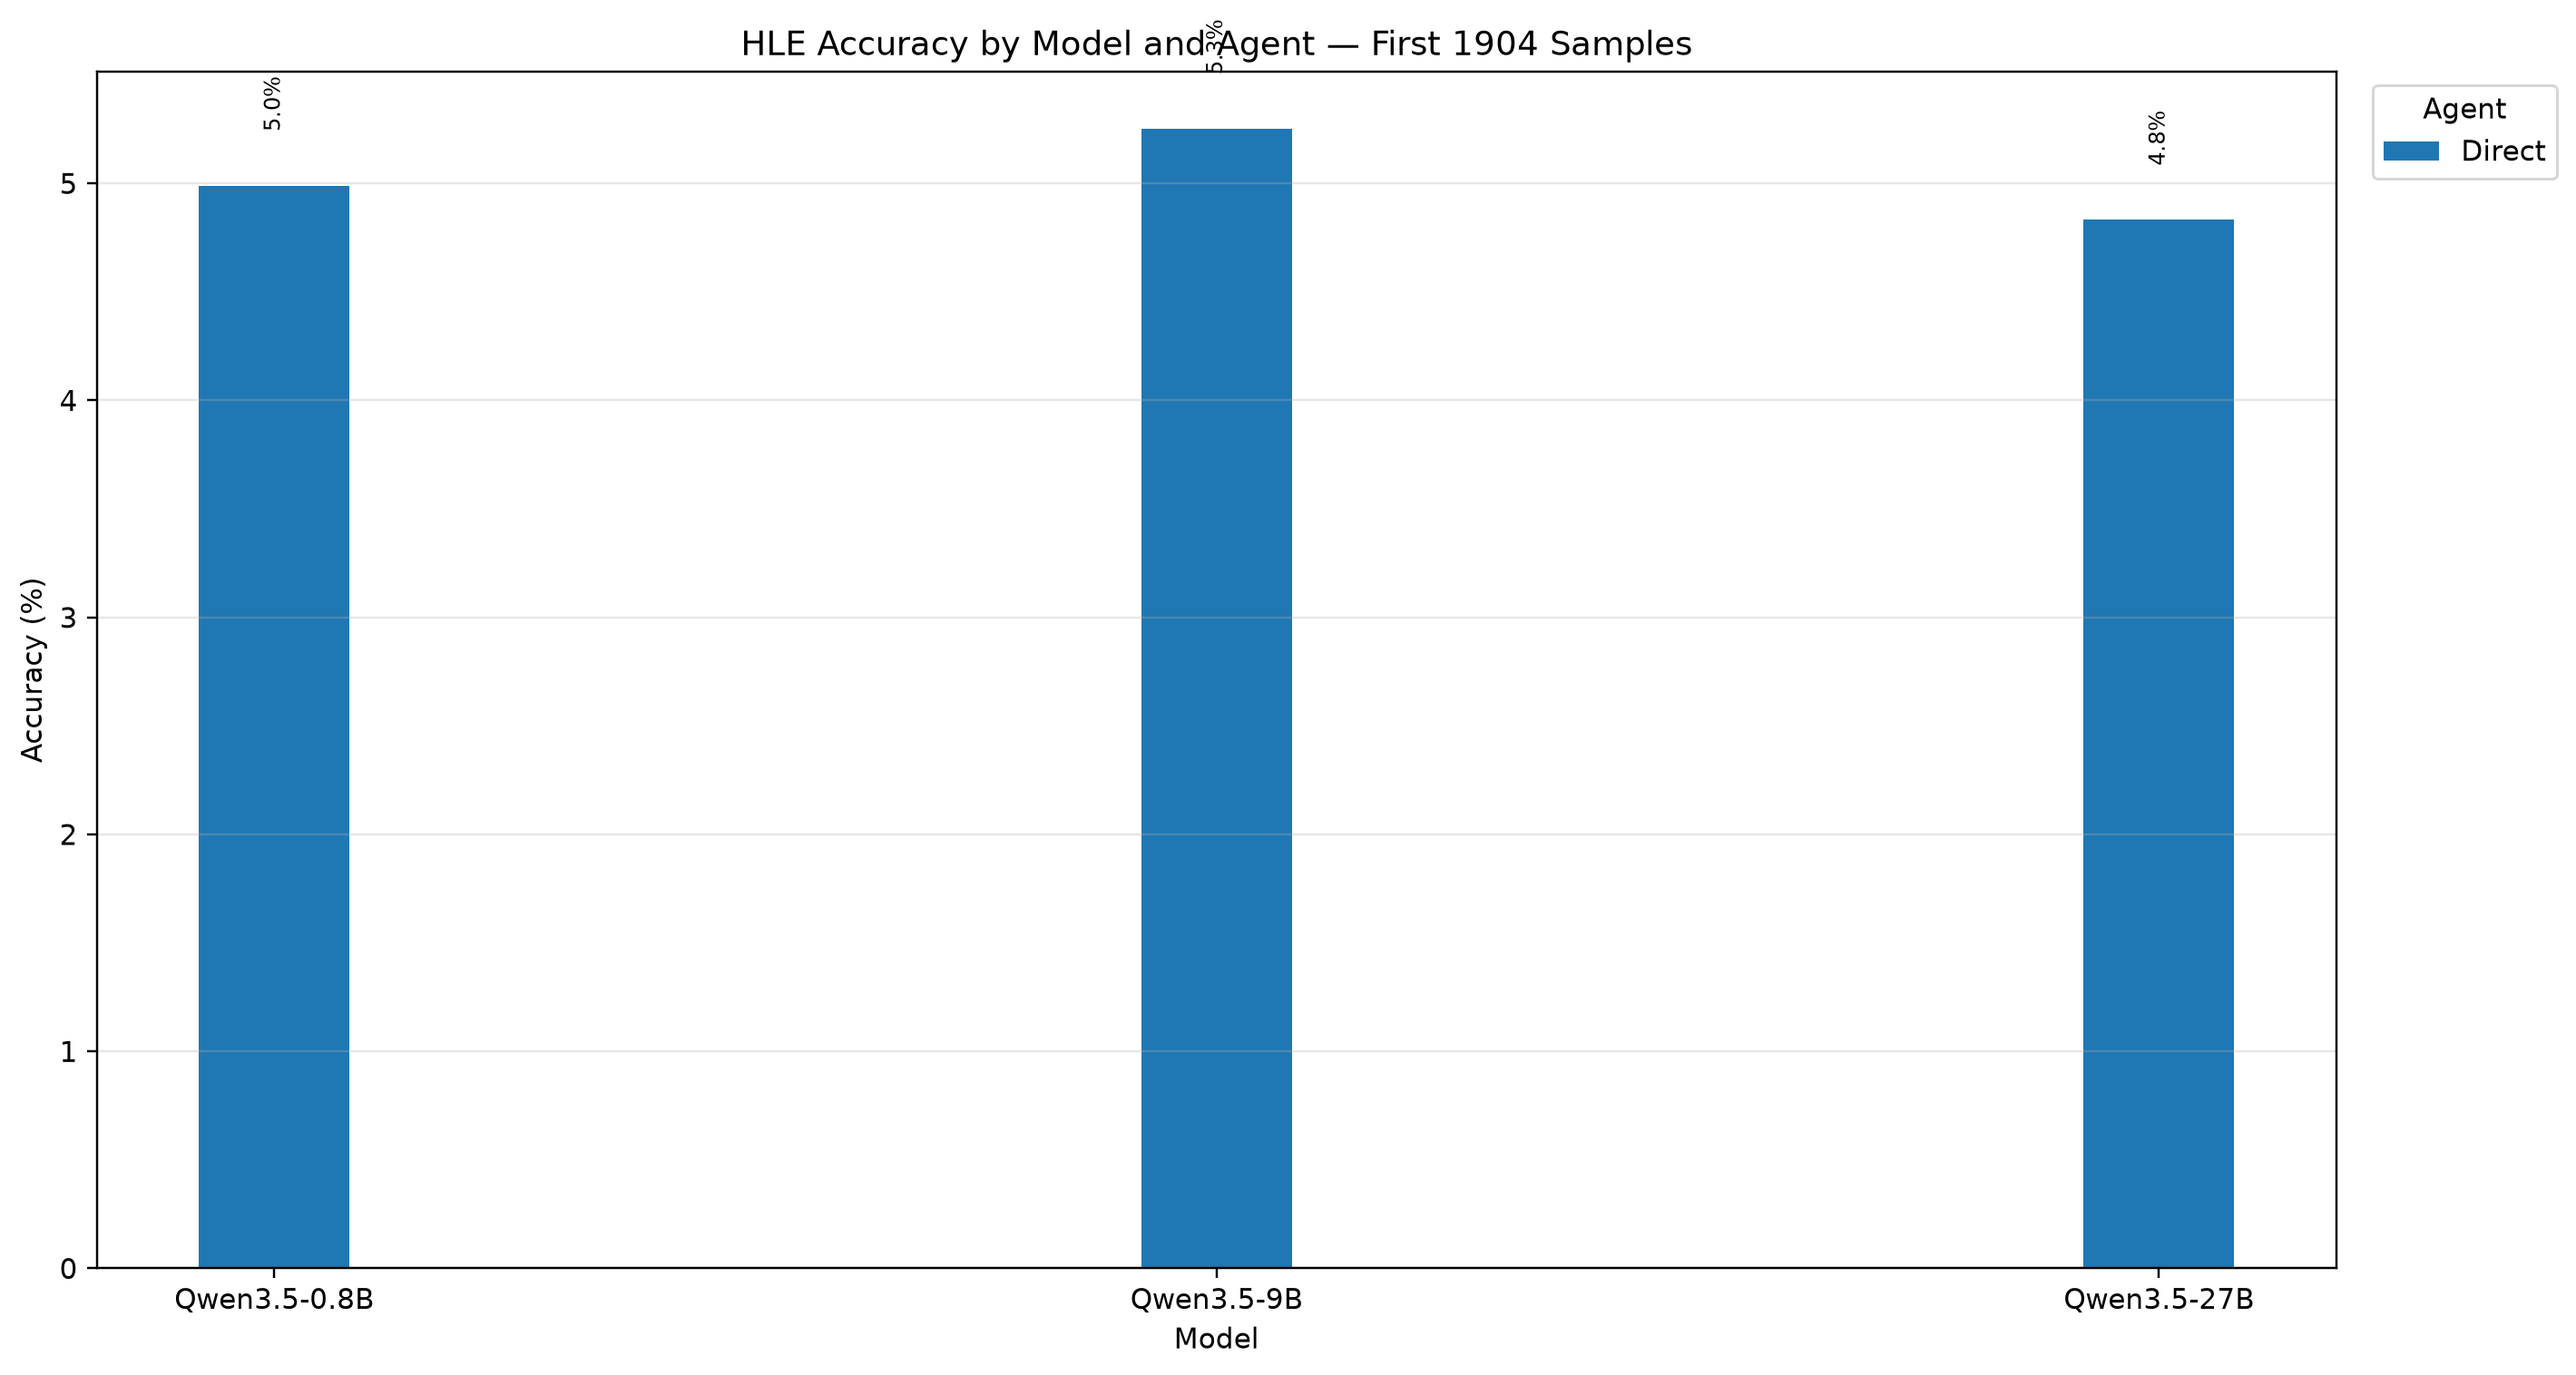
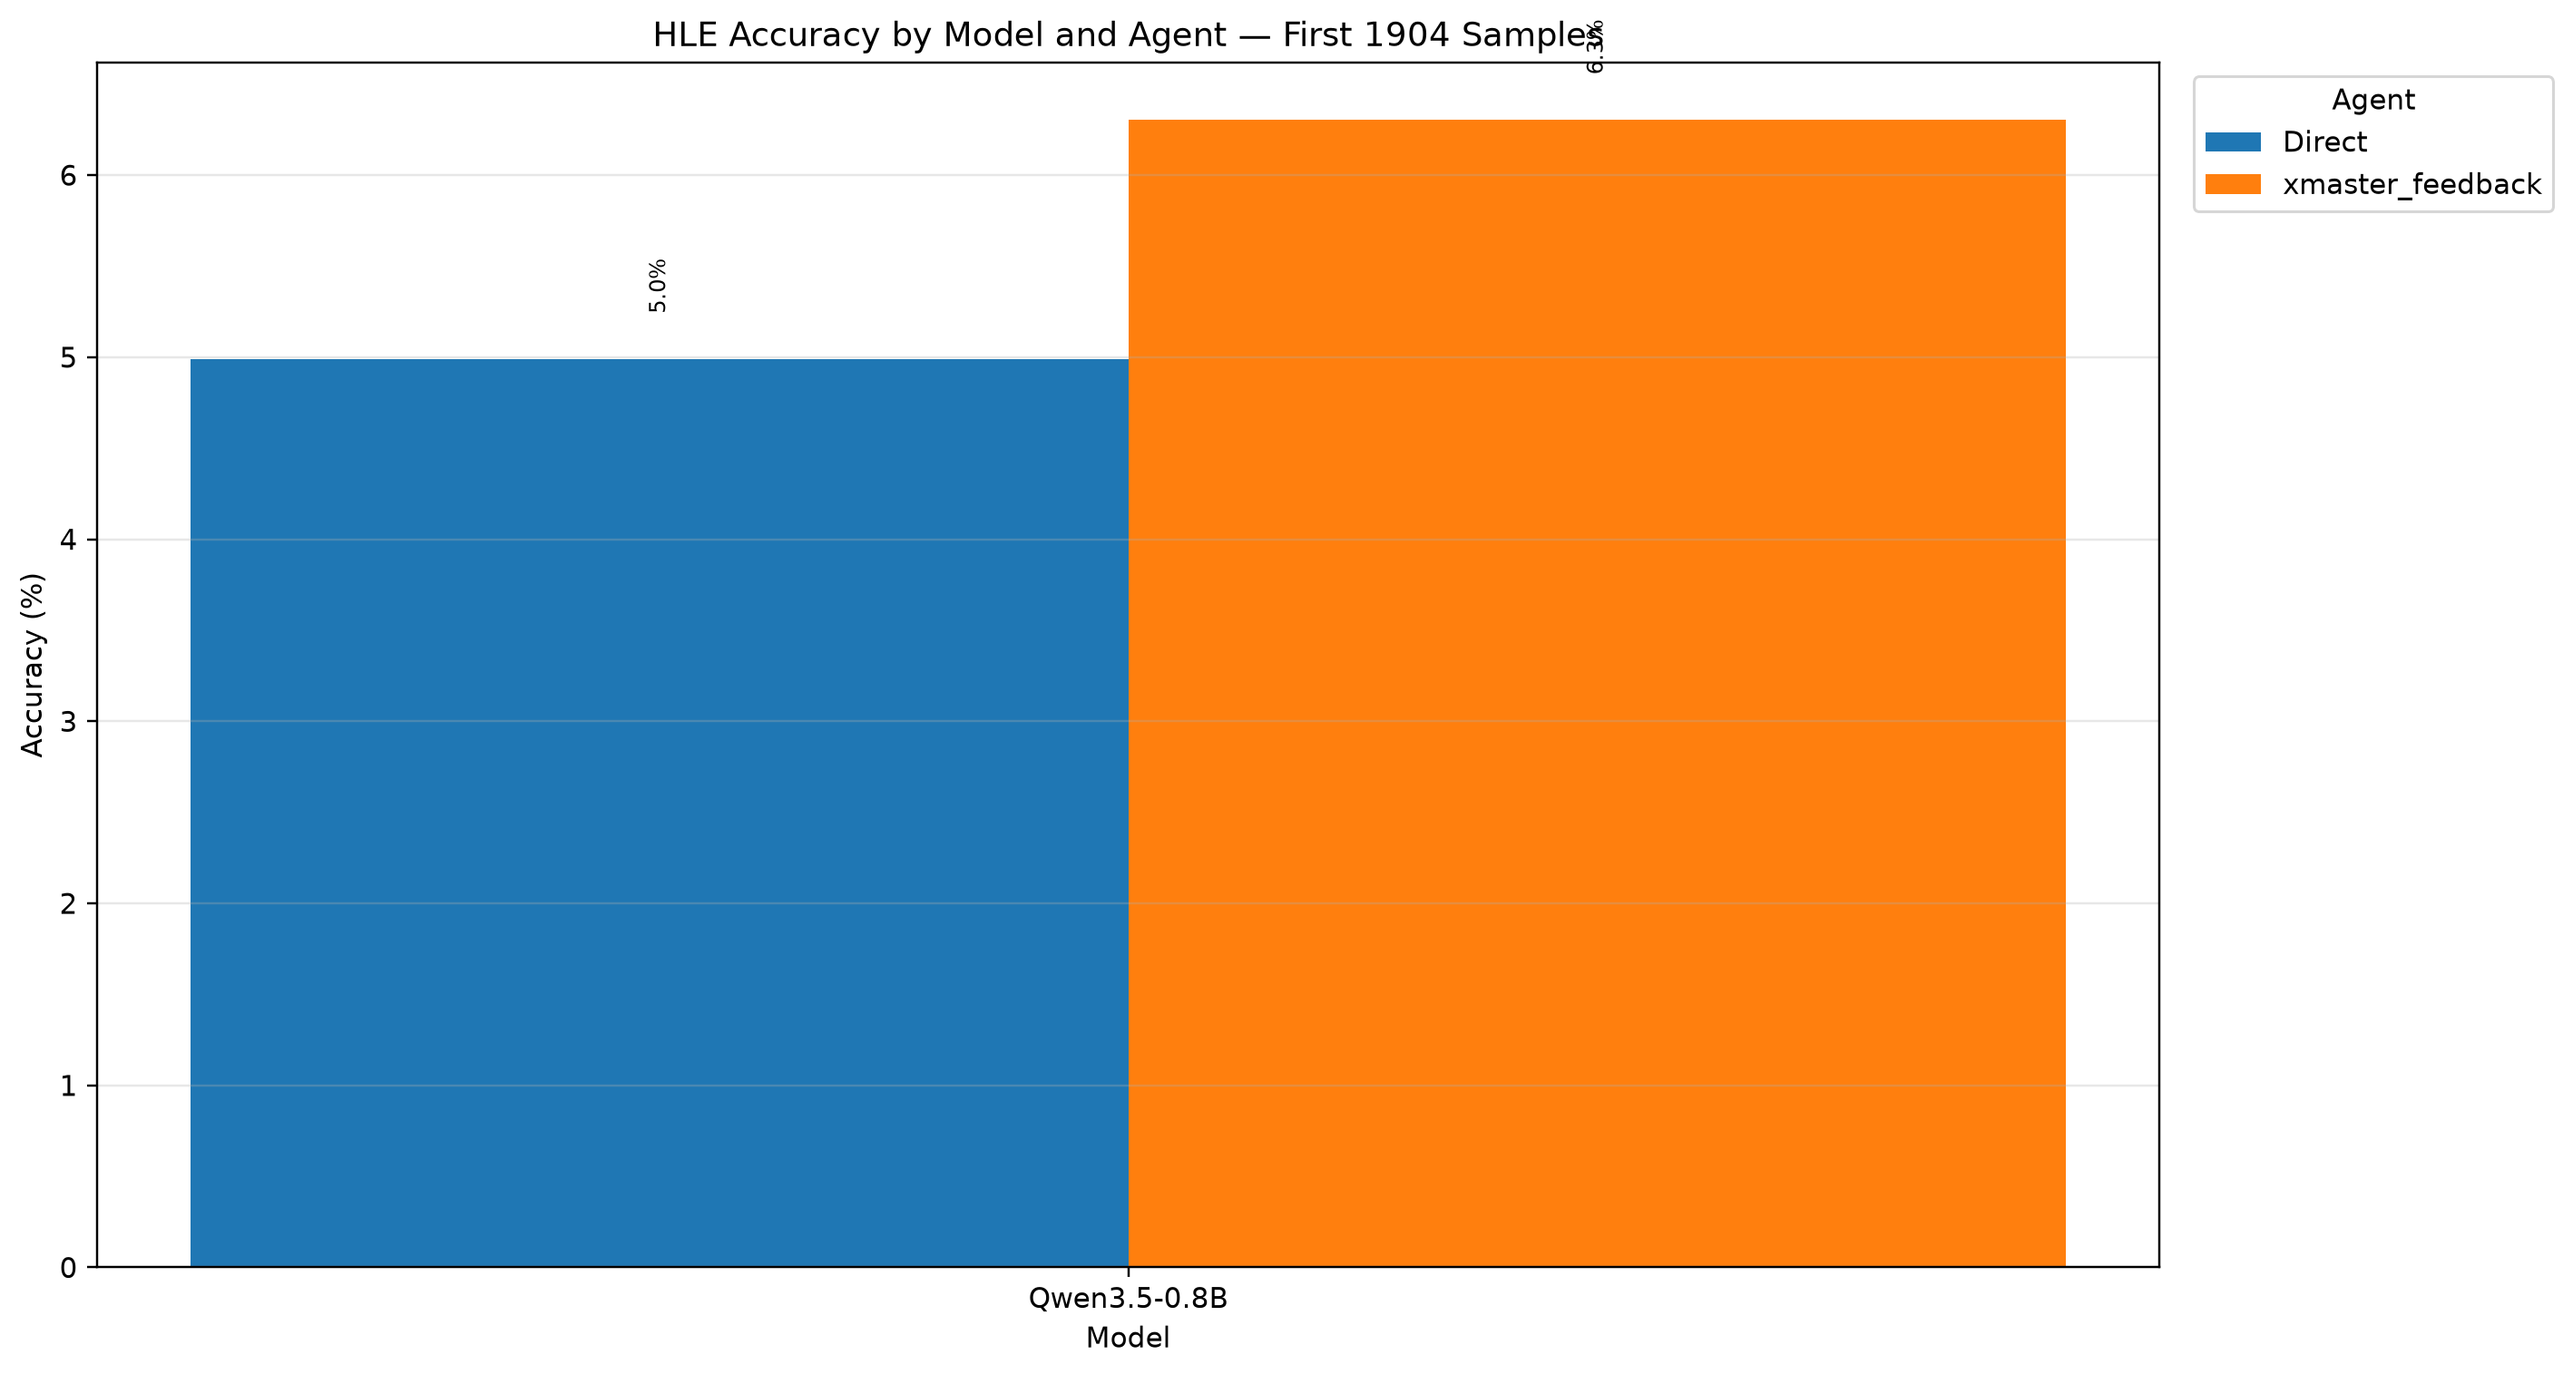
feat: use 3.5-thinking

diff --git a/scripts/compare_first_200_with_charts.py b/scripts/compare_first_200_with_charts.py
@@ -20,7 +20,7 @@ import numpy as np
 # This works both locally and on Ubelix without hard-coded paths.
 SCRIPT_DIR = Path(__file__).resolve().parent
 PROJECT_ROOT = SCRIPT_DIR.parent
-RESULT_ROOT = PROJECT_ROOT / "outputs" / "three_model_comparison_thinking"
+RESULT_ROOT = PROJECT_ROOT / "outputs" / "three_model_comparison"
 FIRST_N = 1904
 
 MODELS = [
@@ -34,24 +34,25 @@ MODELS = [
     #     "tag": "qwen25_7b",
     #     "precision": "BF16/FP16",
     # },
-    {
-        "name": "Qwen3.5-9B",
-        "tag": "qwen35_9b",
-        "precision": "BF16/FP16",
-    },
-    {
-        "name": "Qwen3.5-27B",
-        "tag": "qwen35_27b",
-        "precision": "NF4 4-bit",
-    },
+    # {
+    #     "name": "Qwen3.5-9B",
+    #     "tag": "qwen35_9b",
+    #     "precision": "BF16/FP16",
+    # },
+    # {
+    #     "name": "Qwen3.5-27B",
+    #     "tag": "qwen35_27b",
+    #     "precision": "NF4 4-bit",
+    # },
 ]
 
 AGENTS = [
     "direct",
-    # "feedback",
+    "xmaster_feedback",
     # "tool_search",
     # "oracle_feedback",
     # "oracle_tool",
+
 ]
 
 EXTRACT_ROOT = RESULT_ROOT / "first_1904_results"

diff --git a/outputs/three_model_comparison/first_1904_category_comparison.md b/outputs/three_model_comparison/first_1904_category_comparison.md
@@ -10,19 +10,11 @@
 | Qwen3.5-0.8B | Direct | Math | 3.46% | 30 / 866 |
 | Qwen3.5-0.8B | Direct | Other | 4.96% | 7 / 141 |
 | Qwen3.5-0.8B | Direct | Physics | 5.68% | 10 / 176 |
-| Qwen3.5-9B | Direct | Biology/Medicine | 10.05% | 21 / 209 |
-| Qwen3.5-9B | Direct | Chemistry | 7.89% | 6 / 76 |
-| Qwen3.5-9B | Direct | Computer Science/AI | 3.98% | 8 / 201 |
-| Qwen3.5-9B | Direct | Engineering | 8.77% | 5 / 57 |
-| Qwen3.5-9B | Direct | Humanities/Social Science | 5.62% | 10 / 178 |
-| Qwen3.5-9B | Direct | Math | 3.93% | 34 / 866 |
-| Qwen3.5-9B | Direct | Other | 5.67% | 8 / 141 |
-| Qwen3.5-9B | Direct | Physics | 4.55% | 8 / 176 |
-| Qwen3.5-27B | Direct | Biology/Medicine | 7.66% | 16 / 209 |
-| Qwen3.5-27B | Direct | Chemistry | 3.95% | 3 / 76 |
-| Qwen3.5-27B | Direct | Computer Science/AI | 5.47% | 11 / 201 |
-| Qwen3.5-27B | Direct | Engineering | 8.77% | 5 / 57 |
-| Qwen3.5-27B | Direct | Humanities/Social Science | 5.62% | 10 / 178 |
-| Qwen3.5-27B | Direct | Math | 4.16% | 36 / 866 |
-| Qwen3.5-27B | Direct | Other | 3.55% | 5 / 141 |
-| Qwen3.5-27B | Direct | Physics | 3.41% | 6 / 176 |
+| Qwen3.5-0.8B | xmaster_feedback | Biology/Medicine | 10.05% | 21 / 209 |
+| Qwen3.5-0.8B | xmaster_feedback | Chemistry | 7.89% | 6 / 76 |
+| Qwen3.5-0.8B | xmaster_feedback | Computer Science/AI | 5.47% | 11 / 201 |
+| Qwen3.5-0.8B | xmaster_feedback | Engineering | 10.53% | 6 / 57 |
+| Qwen3.5-0.8B | xmaster_feedback | Humanities/Social Science | 7.87% | 14 / 178 |
+| Qwen3.5-0.8B | xmaster_feedback | Math | 4.97% | 43 / 866 |
+| Qwen3.5-0.8B | xmaster_feedback | Other | 5.67% | 8 / 141 |
+| Qwen3.5-0.8B | xmaster_feedback | Physics | 6.25% | 11 / 176 |

diff --git a/outputs/three_model_comparison/first_1904_comparison.md b/outputs/three_model_comparison/first_1904_comparison.md
@@ -5,8 +5,7 @@ All results are restricted to dataset indices `0–1903`.
 | Model | Precision | Agent | Accuracy | Correct / N | Coverage | W→R | R→W | Net vs Direct | Status |
 |---|---|---|---:|---:|---:|---:|---:|---:|---|
 | Qwen3.5-0.8B | BF16/FP16 | Direct | 4.99% | 95 / 1904 | 1904/1904 | — | — | — | Complete |
-| Qwen3.5-9B | BF16/FP16 | Direct | 5.25% | 100 / 1904 | 1904/1904 | — | — | — | Complete |
-| Qwen3.5-27B | NF4 4-bit | Direct | 4.83% | 92 / 1904 | 1904/1904 | — | — | — | Complete |
+| Qwen3.5-0.8B | BF16/FP16 | xmaster_feedback | 6.30% | 120 / 1904 | 1904/1904 | 72 | 47 | +25 | Complete |
 
 ## Interpretation notes
 
